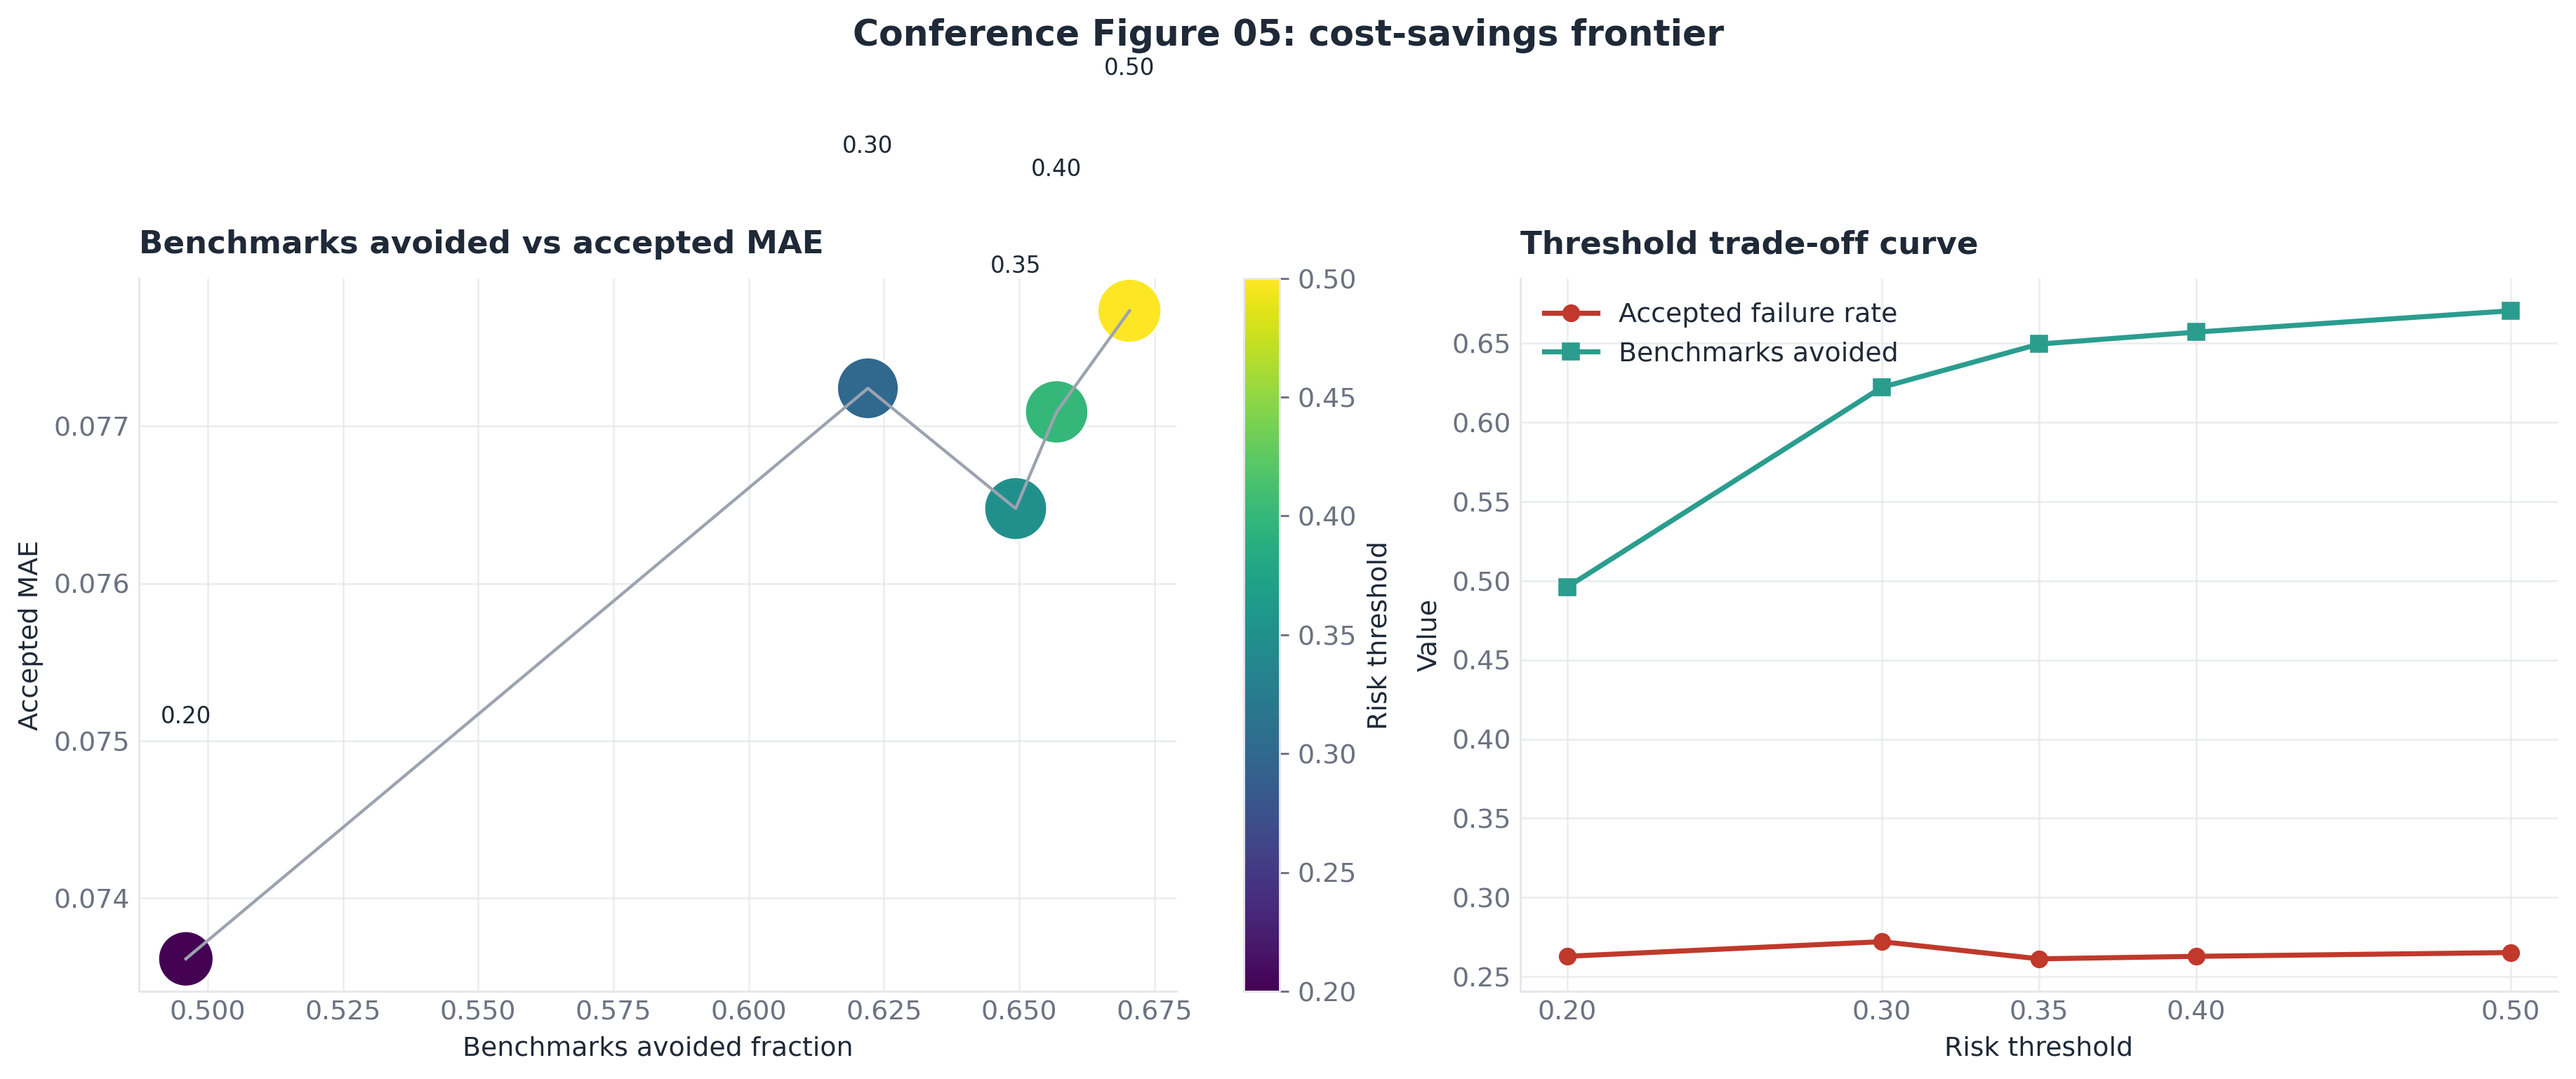
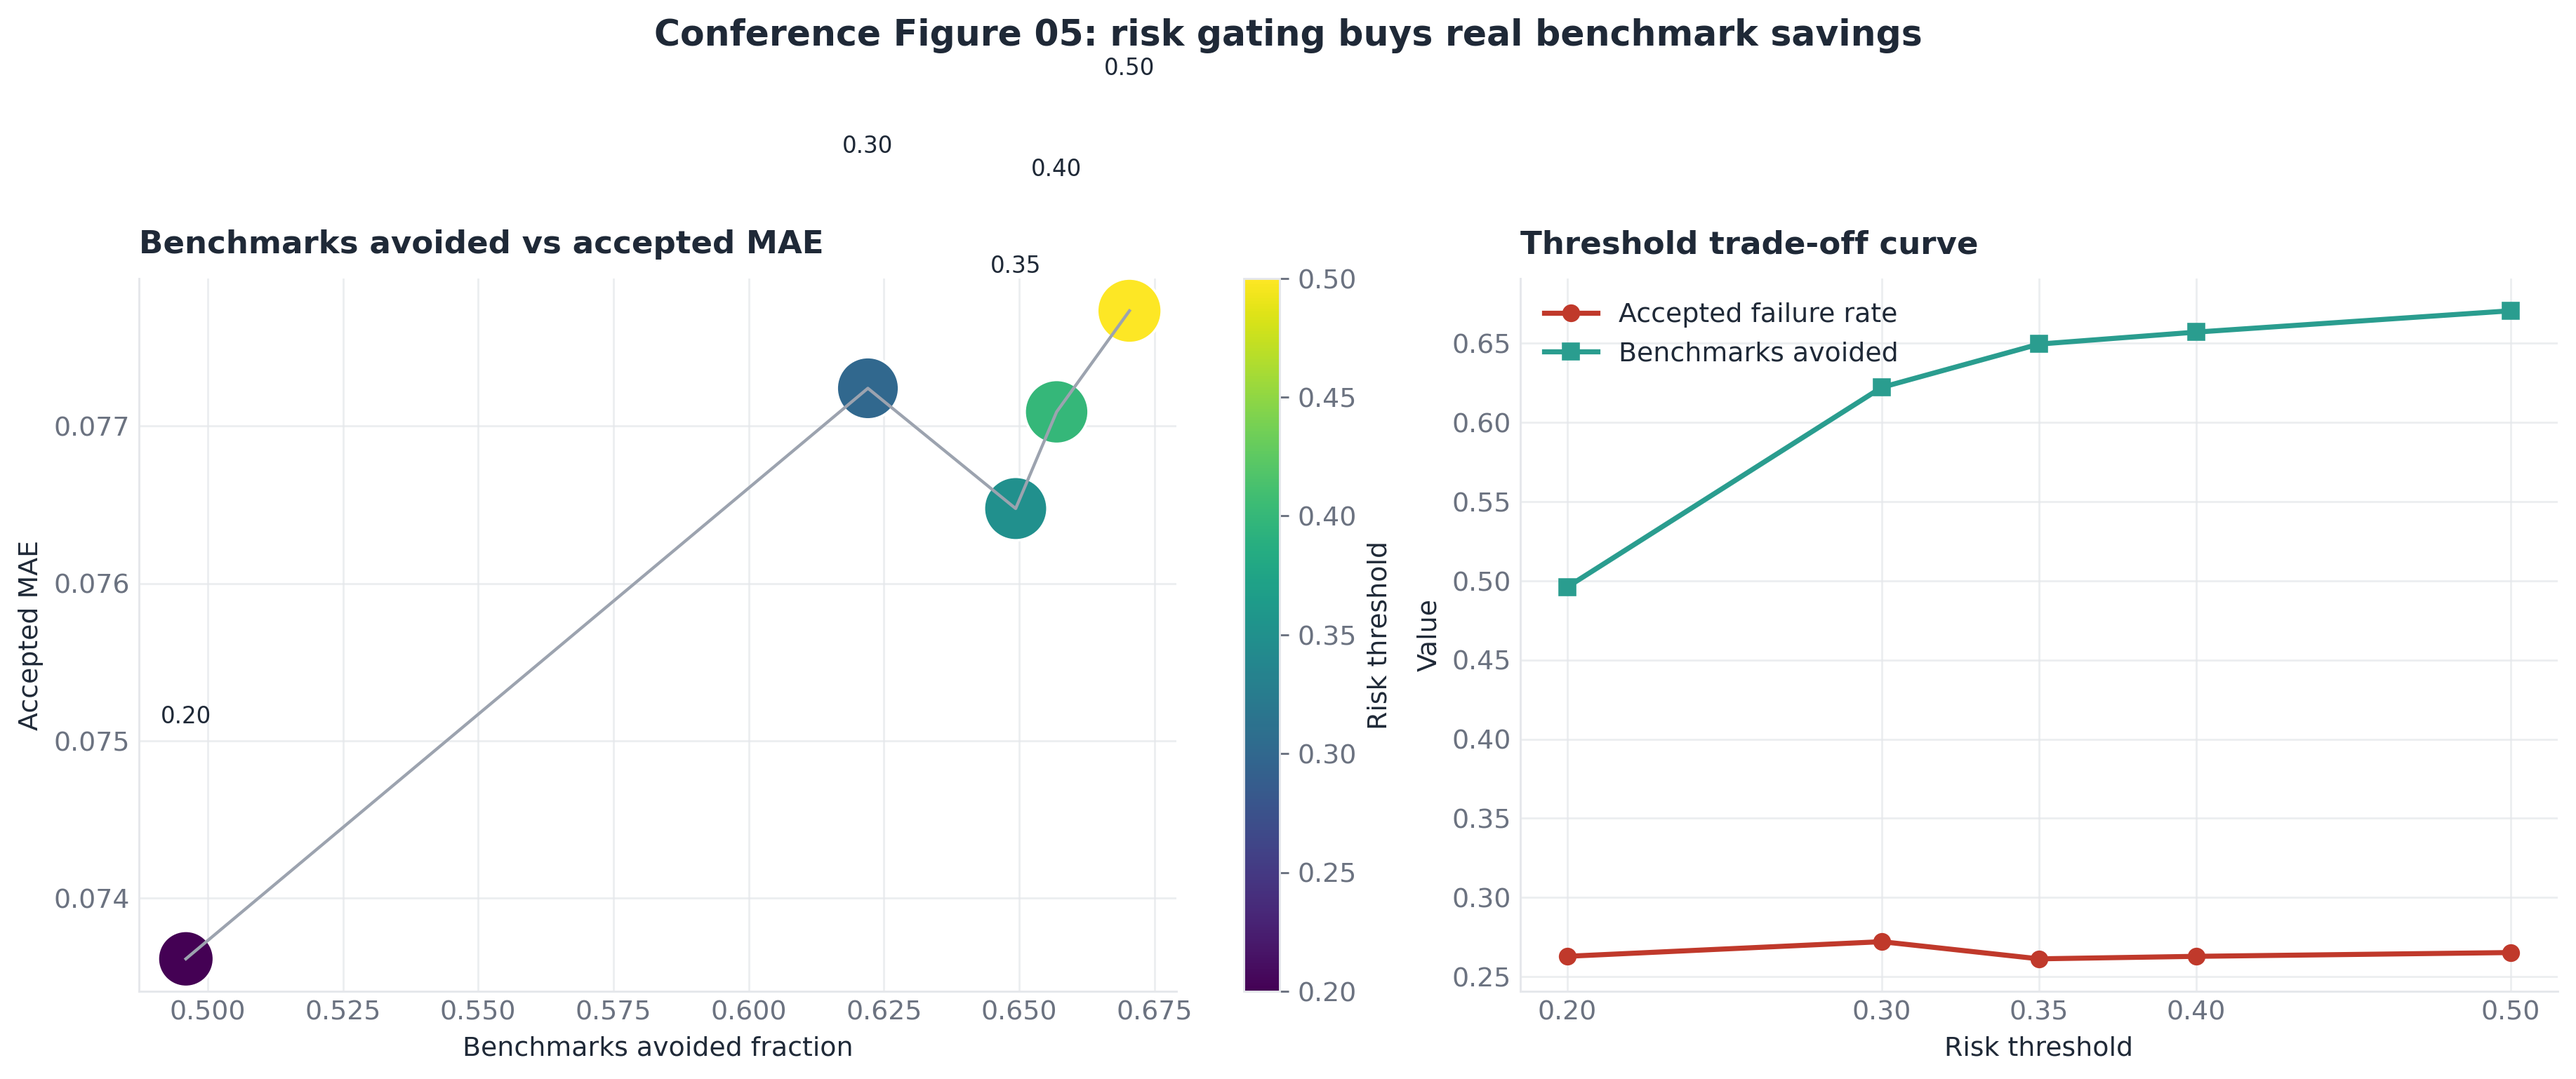
Make conference figures more narrative

Changed region(s): [[0.2485, 0.0, 0.7455, 0.0624]]

diff --git a/scripts/generate_conference_figures.py b/scripts/generate_conference_figures.py
@@ -224,7 +224,7 @@ def random_split_indices(n_models: int, test_fraction: float, seed: int) -> tupl
     return np.sort(order[:n_train]), np.sort(order[n_train:])
 
 
-def build_risk_stratification_artifacts(data_dir: Path) -> list[dict[str, float]]:
+def build_risk_stratification_artifacts(data_dir: Path) -> tuple[list[dict[str, float]], list[dict[str, float]]]:
     score_matrix = load_score_csv(SCORE_CSV)
     matrix = score_matrix.values
     episode_rows: list[dict[str, float]] = []
@@ -292,7 +292,7 @@ def build_risk_stratification_artifacts(data_dir: Path) -> list[dict[str, float]
                     int(row["count"]),
                 ]
             )
-    return bins
+    return episode_rows, bins
 
 
 def summarize_risk_bins(episode_rows: list[dict[str, float]]) -> list[dict[str, float]]:
@@ -333,19 +333,31 @@ def generate_overview_figure(
     metric_colors = [COLORS["mae"], COLORS["auc"], COLORS["coverage"], COLORS["quantile"]]
     values = [benchmark_metrics[key] for key in metric_keys]
     ax = axes[0, 0]
-    ax.bar(metric_labels, values, color=metric_colors)
-    style_axis(ax, "Primary benchmark summary", ylabel="Value")
+    ax.bar(metric_labels, values, color=metric_colors, edgecolor="white", linewidth=1.2)
+    style_axis(ax, "Primary benchmark outcome", ylabel="Value")
     for x, value in enumerate(values):
         ax.text(x, value + 0.015, f"{value:.3f}", ha="center", fontsize=9.5)
+    ax.text(
+        0.02,
+        0.96,
+        "Lower is better for MAE.\nHigher is better for AUC and coverage.",
+        transform=ax.transAxes,
+        va="top",
+        fontsize=9,
+        color=COLORS["muted"],
+    )
 
     ax = axes[0, 1]
     names = [name for name, _ in benchmark_coverage]
     counts = [count for _, count in benchmark_coverage]
-    ax.bar(names, counts, color=COLORS["navy"])
-    style_axis(ax, "Observed rows per benchmark", ylabel="Models with scores")
+    ax.hlines(np.arange(len(names)), 0, counts, color=COLORS["grid"], linewidth=2.4)
+    ax.scatter(counts, np.arange(len(names)), s=90, color=COLORS["navy"], zorder=3)
+    style_axis(ax, "Benchmark coverage in the dataset", xlabel="Models with scores")
+    ax.set_yticks(np.arange(len(names)))
+    ax.set_yticklabels(names)
     ax.tick_params(axis="x", rotation=25)
-    for x, count in enumerate(counts):
-        ax.text(x, count + 0.6, str(count), ha="center", fontsize=9)
+    for y, count in enumerate(counts):
+        ax.text(count + 0.35, y, str(count), va="center", fontsize=9)
 
     ax = axes[1, 0]
     targets = np.asarray([row["target_coverage"] for row in alpha_rows], dtype=float)
@@ -353,8 +365,9 @@ def generate_overview_figure(
     stds = np.asarray([row["empirical_coverage_std"] for row in alpha_rows], dtype=float)
     alphas = np.asarray([row["alpha"] for row in alpha_rows], dtype=float)
     ax.errorbar(targets, empirical, yerr=stds, fmt="o-", color=COLORS["coverage"], ecolor=COLORS["ink"], capsize=4)
+    ax.fill_between([0.65, 1.0], [0.65, 1.0], [0.70, 1.05], color=COLORS["coverage"], alpha=0.05)
     ax.plot([0.65, 1.0], [0.65, 1.0], linestyle="--", linewidth=1.2, color=COLORS["gray"])
-    style_axis(ax, "Conformal coverage vs target", xlabel="Target coverage (1 - alpha)", ylabel="Empirical coverage")
+    style_axis(ax, "Conformal calibration holds across alpha", xlabel="Target coverage (1 - alpha)", ylabel="Empirical coverage")
     ax.set_xlim(0.65, 1.0)
     ax.set_ylim(0.65, 1.0)
     for x, y, alpha in zip(targets, empirical, alphas):
@@ -364,12 +377,12 @@ def generate_overview_figure(
     top_families = family_counts[:8][::-1]
     family_names = [name for name, _ in top_families]
     family_sizes = [count for _, count in top_families]
-    ax.barh(family_names, family_sizes, color=COLORS["gold"])
+    ax.barh(family_names, family_sizes, color=COLORS["gold"], edgecolor="white", linewidth=1.0)
     style_axis(ax, "Largest model families", xlabel="Number of models")
     for y, count in enumerate(family_sizes):
         ax.text(count + 0.15, y, str(count), va="center", fontsize=9)
 
-    fig.suptitle("Conference Figure 01: benchmark and dataset overview", fontsize=14, fontweight="bold")
+    fig.suptitle("Conference Figure 01: why the real-data story is credible", fontsize=14, fontweight="bold")
     save_figure(fig, path, dpi)
 
 
@@ -390,7 +403,8 @@ def generate_baseline_comparison(path: Path, dpi: int, baseline_rows: list[dict[
         stds = np.asarray([float(row[std_key]) for row in baseline_rows], dtype=float)
         bar_colors = [color if name == highlight else COLORS["gray"] for name in names]
         finite = np.isfinite(values)
-        ax.barh(y[finite], values[finite], color=np.asarray(bar_colors, dtype=object)[finite])
+        ax.hlines(y[finite], np.nanmin(values[finite]) if not invert else np.nanmax(values[finite]), values[finite], color=COLORS["grid"], linewidth=2.4)
+        ax.scatter(values[finite], y[finite], s=95, color=np.asarray(bar_colors, dtype=object)[finite], zorder=3, edgecolors="white", linewidths=1.2)
         if np.any(finite & np.isfinite(stds)):
             ax.errorbar(values[finite], y[finite], xerr=stds[finite], fmt="none", ecolor=COLORS["ink"], capsize=3)
         style_axis(ax, title)
@@ -402,7 +416,7 @@ def generate_baseline_comparison(path: Path, dpi: int, baseline_rows: list[dict[
             ax.text(value, yy, f" {value:.3f}" if not invert else f"{value:.3f} ", va="center", ha="left" if not invert else "right", fontsize=9)
         ax.set_ylim(-0.6, len(names) - 0.4)
 
-    fig.suptitle("Conference Figure 02: baseline comparison", fontsize=14, fontweight="bold")
+    fig.suptitle("Conference Figure 02: the full method earns its extra machinery", fontsize=14, fontweight="bold")
     save_figure(fig, path, dpi)
 
 
@@ -426,7 +440,7 @@ def generate_observed_fraction_curve(path: Path, dpi: int, observed_rows: list[d
     axes[-1].set_xlabel("Observed benchmark fraction")
     axes[-1].set_xticks(fractions)
     axes[-1].set_xticklabels([f"{int(value * 100)}%" for value in fractions])
-    fig.suptitle("Conference Figure 03: performance vs observed fraction", fontsize=14, fontweight="bold")
+    fig.suptitle("Conference Figure 03: predictions become useful after surprisingly few anchors", fontsize=14, fontweight="bold")
     save_figure(fig, path, dpi)
 
 
@@ -444,17 +458,26 @@ def generate_family_split_figure(
     labels = ["MAE", "AUC", "Coverage", "Quantile"]
     random_values = np.asarray([benchmark_metrics[key] for key in metric_keys], dtype=float)
     family_values = np.asarray([family_metrics[key] for key in metric_keys], dtype=float)
-    x = np.arange(len(metric_keys))
-    width = 0.36
-    ax.bar(x - width / 2, random_values, width, color=COLORS["auc"], label="Random split")
-    ax.bar(x + width / 2, family_values, width, color=COLORS["mae"], label="Family holdout")
-    ax.set_xticks(x)
-    ax.set_xticklabels(labels)
-    style_axis(ax, "Random split vs family holdout", ylabel="Metric value")
-    ax.legend(frameon=False)
-    for xpos, random_value, family_value in zip(x, random_values, family_values):
-        ax.text(xpos - width / 2, random_value + 0.01, f"{random_value:.3f}", ha="center", fontsize=9)
-        ax.text(xpos + width / 2, family_value + 0.01, f"{family_value:.3f}", ha="center", fontsize=9)
+    y = np.arange(len(metric_keys))
+    for yy, label, random_value, family_value in zip(y, labels, random_values, family_values):
+        ax.plot([random_value, family_value], [yy, yy], color=COLORS["grid"], linewidth=3.0, zorder=1)
+        ax.scatter(random_value, yy, s=85, color=COLORS["auc"], edgecolors="white", linewidths=1.2, zorder=3)
+        ax.scatter(family_value, yy, s=85, color=COLORS["mae"], edgecolors="white", linewidths=1.2, zorder=3)
+        ax.text(random_value, yy + 0.12, f"{random_value:.3f}", ha="center", fontsize=9, color=COLORS["auc"])
+        ax.text(family_value, yy - 0.18, f"{family_value:.3f}", ha="center", fontsize=9, color=COLORS["mae"])
+        delta = family_value - random_value
+        ax.text(max(random_value, family_value) + 0.02, yy, f"Δ {delta:+.3f}", va="center", fontsize=9, color=COLORS["ink"])
+    style_axis(ax, "How much harder is family holdout?", xlabel="Metric value")
+    ax.set_yticks(y)
+    ax.set_yticklabels(labels)
+    ax.legend(
+        handles=[
+            mpl.lines.Line2D([0], [0], marker="o", color="none", markerfacecolor=COLORS["auc"], markeredgecolor="white", markersize=8, label="Random split"),
+            mpl.lines.Line2D([0], [0], marker="o", color="none", markerfacecolor=COLORS["mae"], markeredgecolor="white", markersize=8, label="Family holdout"),
+        ],
+        frameon=False,
+        loc="lower right",
+    )
 
     ax = axes[1]
     top_families = family_counts[:10][::-1]
@@ -465,7 +488,7 @@ def generate_family_split_figure(
     for y, count in enumerate(counts):
         ax.text(count + 0.15, y, str(count), va="center", fontsize=9)
 
-    fig.suptitle("Conference Figure 04: tougher family-holdout split", fontsize=14, fontweight="bold")
+    fig.suptitle("Conference Figure 04: OOD-by-family is harder, but the uncertainty layer still behaves", fontsize=14, fontweight="bold")
     save_figure(fig, path, dpi)
 
 
@@ -493,20 +516,49 @@ def generate_cost_frontier(path: Path, dpi: int, cost_rows: list[dict[str, float
     ax.set_xticks(thresholds)
     ax.legend(frameon=False)
 
-    fig.suptitle("Conference Figure 05: cost-savings frontier", fontsize=14, fontweight="bold")
+    fig.suptitle("Conference Figure 05: risk gating buys real benchmark savings", fontsize=14, fontweight="bold")
     save_figure(fig, path, dpi)
 
 
-def generate_risk_stratification(path: Path, dpi: int, bins: list[dict[str, float]]) -> None:
-    fig, ax = plt.subplots(figsize=(9.5, 5.8), constrained_layout=True)
+def generate_risk_stratification(
+    path: Path,
+    dpi: int,
+    episode_rows: list[dict[str, float]],
+    bins: list[dict[str, float]],
+) -> None:
+    fig, axes = plt.subplots(1, 2, figsize=(14, 5.8), constrained_layout=True)
     labels = [f"{row['bin_left']:.1f}-{row['bin_right']:.1f}" for row in bins]
     failure_rates = np.asarray([row["failure_rate"] for row in bins], dtype=float)
     mean_maes = np.asarray([row["mean_hidden_mae"] for row in bins], dtype=float)
     counts = np.asarray([row["count"] for row in bins], dtype=float)
     x = np.arange(len(labels))
 
+    ax = axes[0]
+    probabilities = np.asarray([row["risk_probability"] for row in episode_rows], dtype=float)
+    maes = np.asarray([row["hidden_mae"] for row in episode_rows], dtype=float)
+    failures = np.asarray([row["failure_label"] for row in episode_rows], dtype=int)
+    ax.scatter(
+        probabilities[failures == 0],
+        maes[failures == 0],
+        s=24,
+        alpha=0.55,
+        color=COLORS["auc"],
+        label="safe episode",
+    )
+    ax.scatter(
+        probabilities[failures == 1],
+        maes[failures == 1],
+        s=28,
+        alpha=0.85,
+        color=COLORS["red"],
+        label="failure episode",
+    )
+    style_axis(ax, "Episode-level risk vs hidden-score error", xlabel="Predicted failure probability", ylabel="Hidden MAE")
+    ax.legend(frameon=False, loc="upper left")
+
+    ax = axes[1]
     bars = ax.bar(x, failure_rates, color=COLORS["gold"])
-    style_axis(ax, "Failure rate by predicted-risk bin", xlabel="Predicted failure probability bin", ylabel="Empirical failure rate")
+    style_axis(ax, "Binned failure rate and MAE", xlabel="Predicted failure probability bin", ylabel="Empirical failure rate")
     ax.set_xticks(x)
     ax.set_xticklabels(labels)
     ax.axhline(0.20, linestyle="--", linewidth=1.2, color=COLORS["gray"])
@@ -521,7 +573,7 @@ def generate_risk_stratification(path: Path, dpi: int, bins: list[dict[str, floa
     for bar, count in zip(bars, counts):
         ax.text(bar.get_x() + bar.get_width() / 2, bar.get_height() + 0.015, f"n={int(count)}", ha="center", fontsize=9)
 
-    fig.suptitle("Conference Figure 06: risk stratification", fontsize=14, fontweight="bold")
+    fig.suptitle("Conference Figure 06: the risk score actually sorts the hard cases", fontsize=14, fontweight="bold")
     save_figure(fig, path, dpi)
 
 
@@ -559,7 +611,7 @@ def generate_demo_case_study(path: Path, dpi: int, demo_report: dict[str, object
     for xpos, pred, truth in zip(x, preds, truths):
         ax.text(xpos, max(pred, truth) + 0.04, f"{abs(pred - truth):.3f}", ha="center", fontsize=8.5)
 
-    fig.suptitle("Conference Figure 07: qualitative demo case", fontsize=14, fontweight="bold")
+    fig.suptitle("Conference Figure 07: one partial-evaluation case study", fontsize=14, fontweight="bold")
     save_figure(fig, path, dpi)
 
 
@@ -578,7 +630,7 @@ def generate_alpha_validation(path: Path, dpi: int, alpha_rows: list[dict[str, f
     for x, y, alpha in zip(targets, empirical, alphas):
         ax.text(x + 0.005, y + 0.004, f"a={alpha:.2f}", fontsize=9)
 
-    fig.suptitle("Conference Figure 08: alpha validation", fontsize=14, fontweight="bold")
+    fig.suptitle("Conference Figure 08: conformal coverage across multiple alpha values", fontsize=14, fontweight="bold")
     save_figure(fig, path, dpi)
 
 
@@ -596,7 +648,7 @@ def main() -> None:
     benchmark_coverage = load_benchmark_coverage()
     cost_rows = load_cost_rows()
     demo_report = load_demo_report()
-    risk_bins = build_risk_stratification_artifacts(data_dir)
+    episode_rows, risk_bins = build_risk_stratification_artifacts(data_dir)
 
     figures = [
         ("01_method_overview.png", lambda p: generate_overview_figure(p, args.dpi, benchmark_metrics, alpha_rows, benchmark_coverage, family_counts)),
@@ -604,7 +656,7 @@ def main() -> None:
         ("03_observed_fraction_curve.png", lambda p: generate_observed_fraction_curve(p, args.dpi, observed_rows)),
         ("04_family_holdout_vs_random.png", lambda p: generate_family_split_figure(p, args.dpi, benchmark_metrics, family_metrics, family_counts)),
         ("05_cost_savings_frontier.png", lambda p: generate_cost_frontier(p, args.dpi, cost_rows)),
-        ("06_risk_stratification.png", lambda p: generate_risk_stratification(p, args.dpi, risk_bins)),
+        ("06_risk_stratification.png", lambda p: generate_risk_stratification(p, args.dpi, episode_rows, risk_bins)),
         ("07_demo_case_study.png", lambda p: generate_demo_case_study(p, args.dpi, demo_report)),
         ("08_alpha_validation.png", lambda p: generate_alpha_validation(p, args.dpi, alpha_rows)),
     ]
